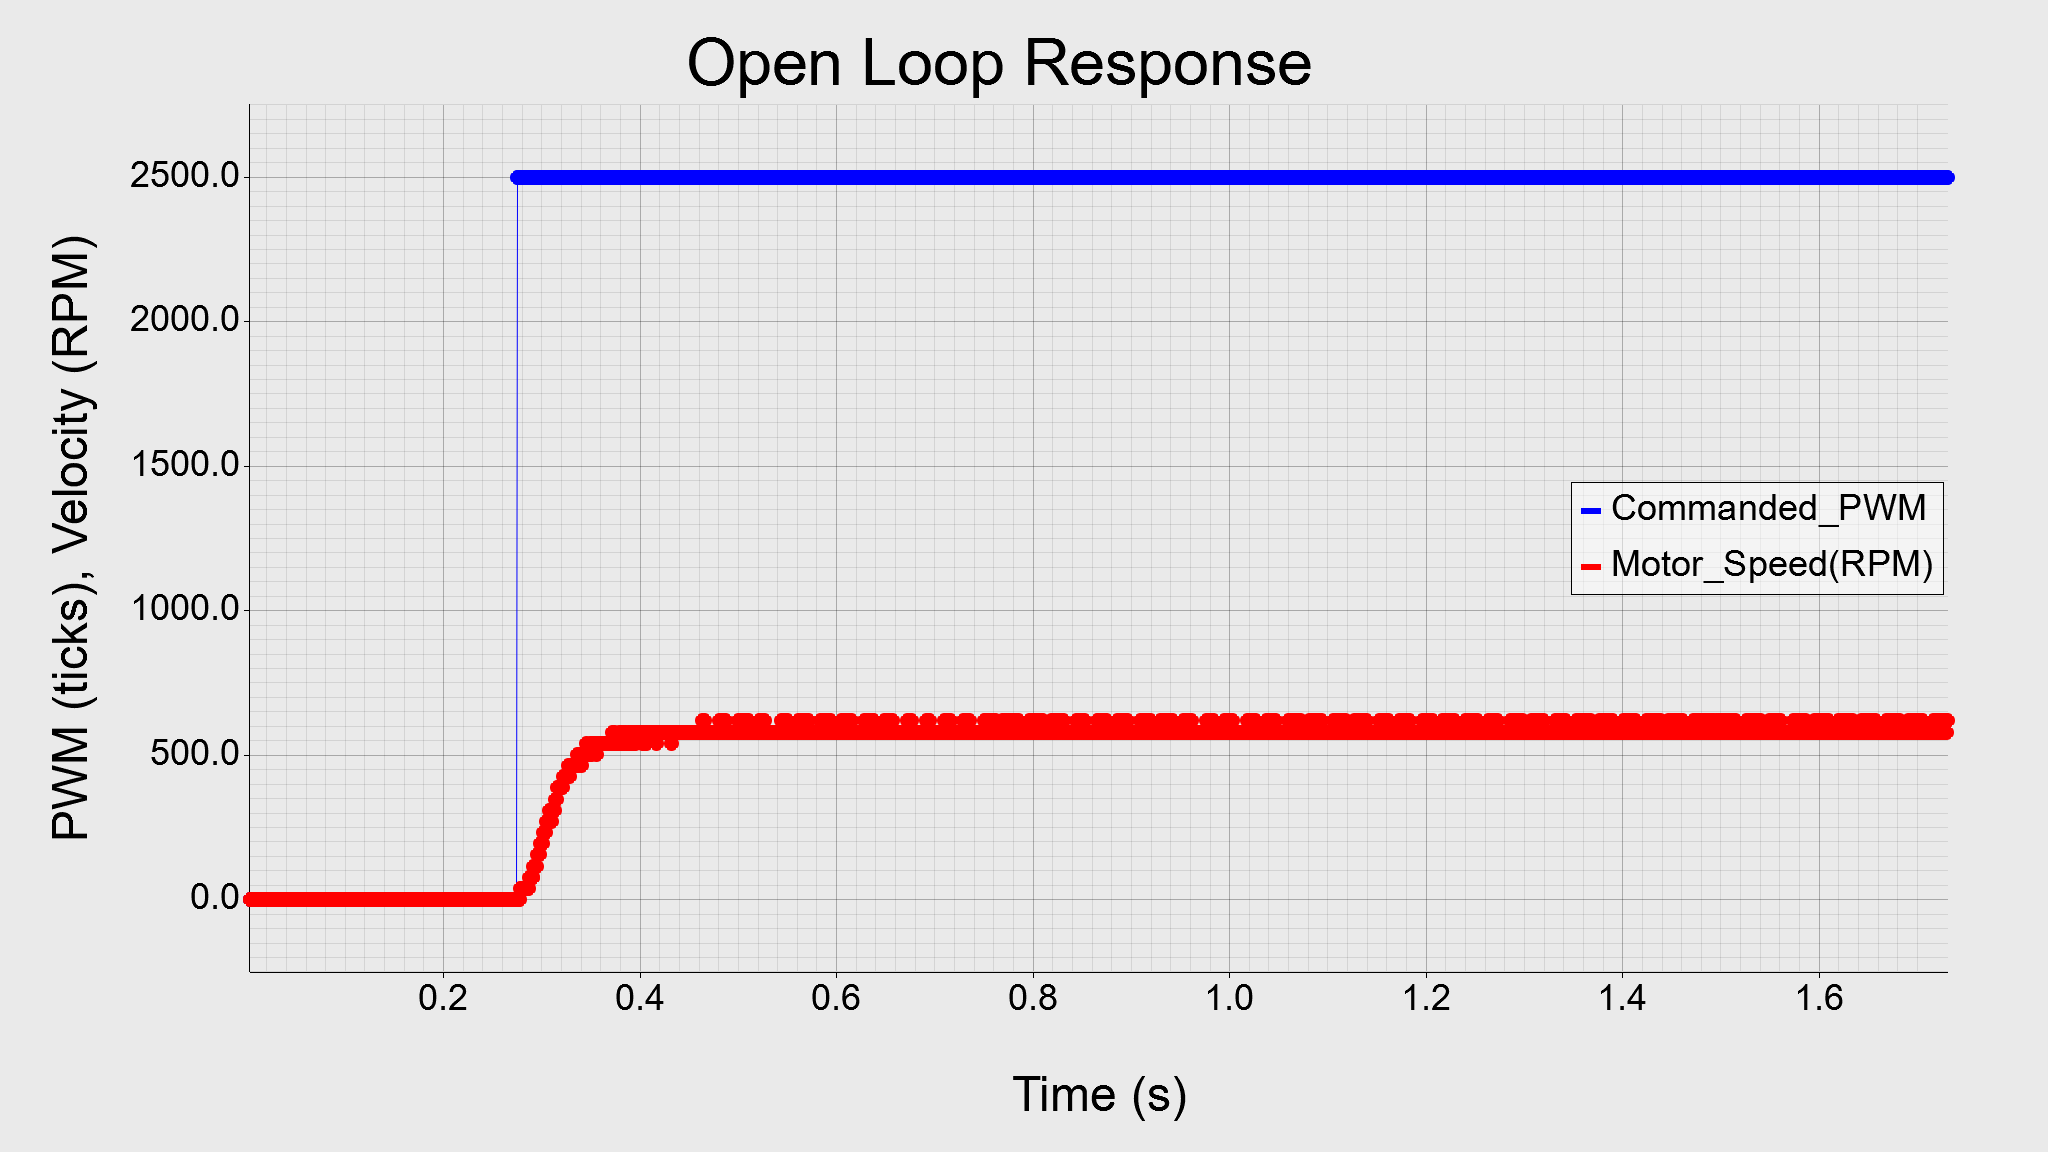
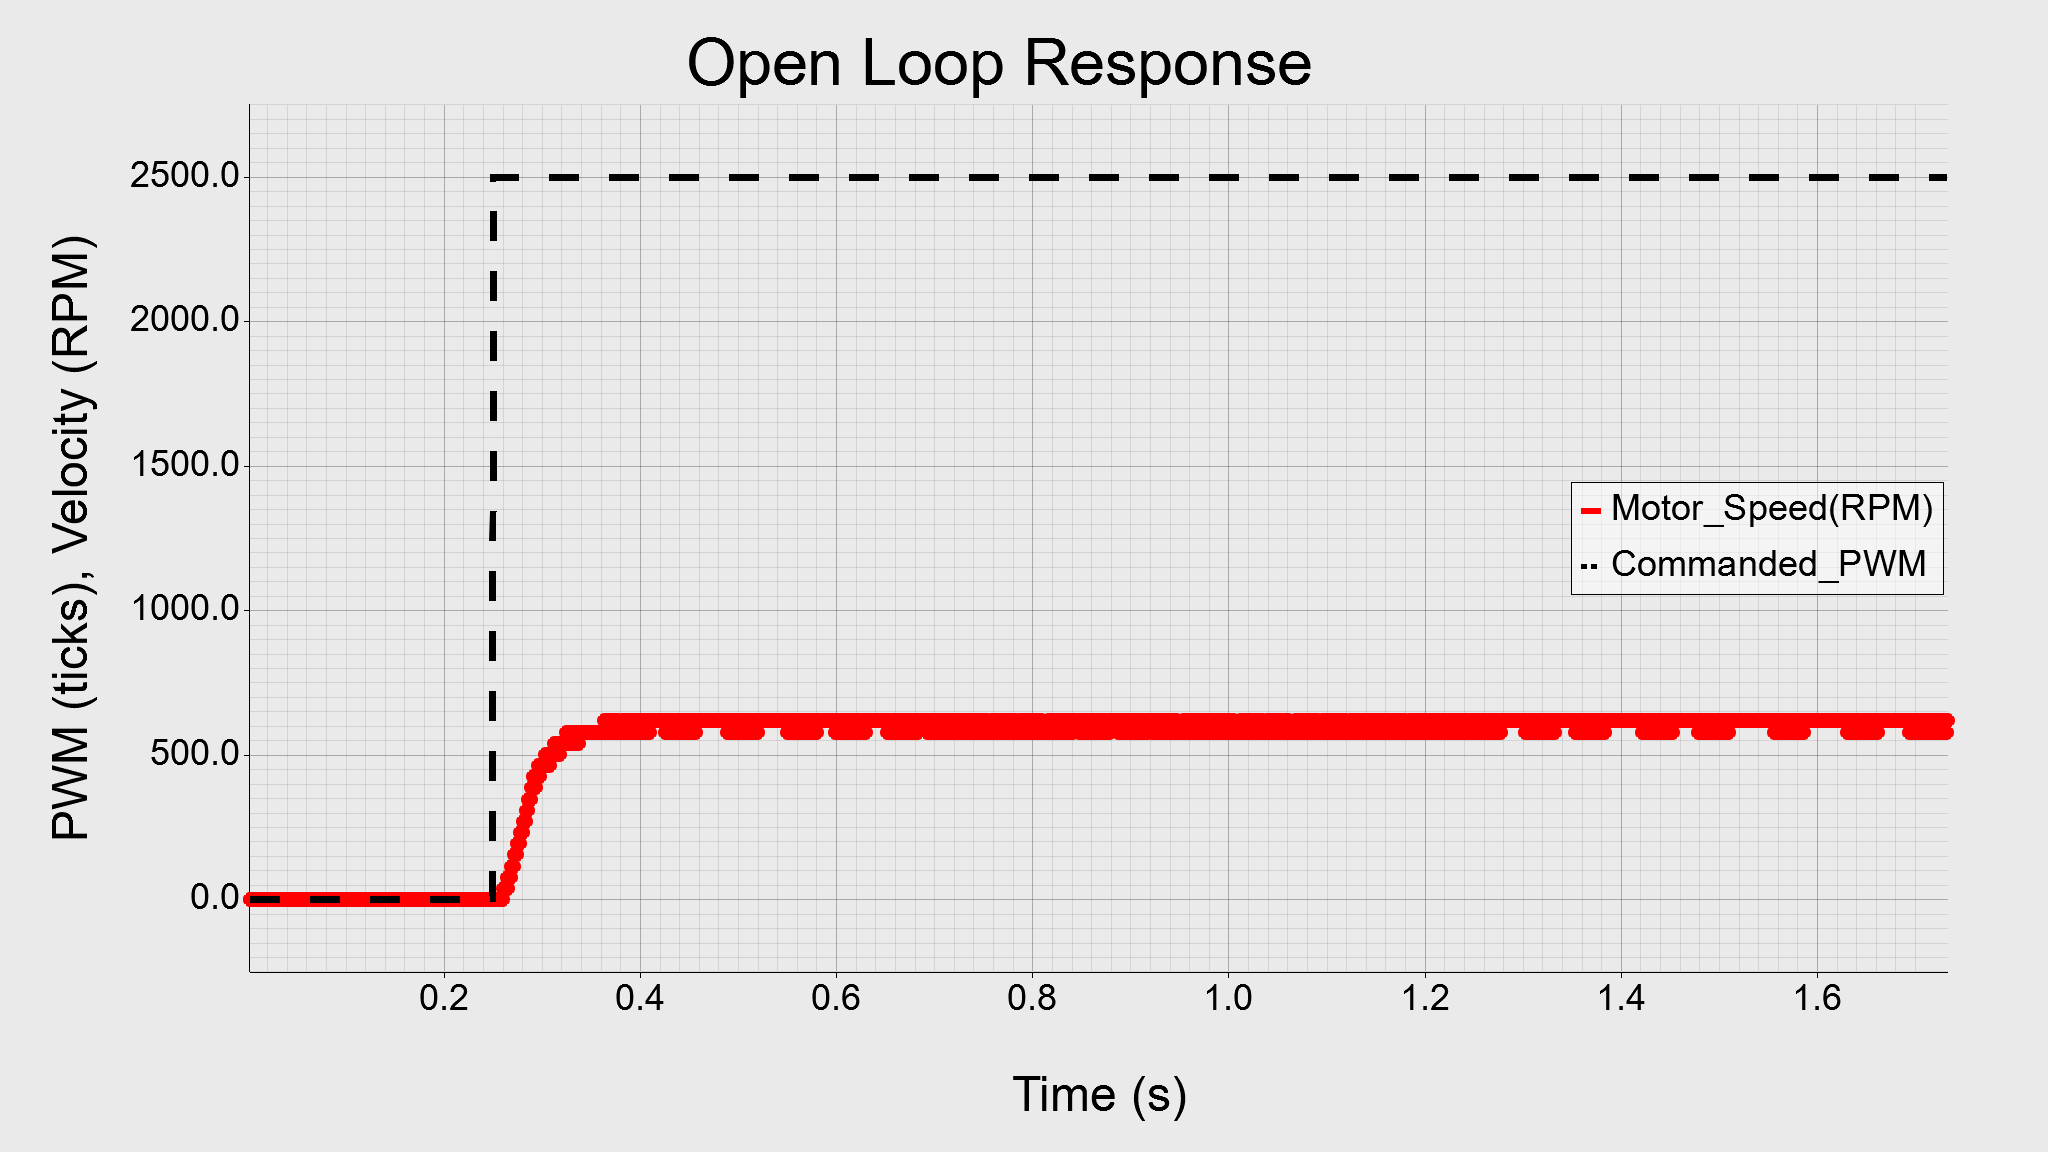
Update Commanded data style to dashed line

diff --git a/rust_script/src/plotter/plot.rs b/rust_script/src/plotter/plot.rs
@@ -49,7 +49,7 @@ pub fn plot_csv(
         .label_style((font_style, font_size.axis_label).into_font())
         .draw()?;
 
-    for col_idx in (0..csv_log.n_col).rev() {
+    for col_idx in 0..csv_log.n_col {
         if col_idx == TIMESTAMP_INDEX {
             continue;
         }
@@ -61,10 +61,6 @@ pub fn plot_csv(
             .collect();
 
         let color = color_config.pallete[(col_idx - 1) % color_config.pallete.len()];
-        let line_style = color.filled().stroke_width(chart_config.line_stroke_width);
-        let legend_line_style = color
-            .filled()
-            .stroke_width(chart_config.line_stroke_width * 5);
 
         let label_name = csv_log
             .header_names
@@ -73,16 +69,44 @@ pub fn plot_csv(
             .cloned()
             .unwrap_or_else(|| format!("Column {}", col_idx));
 
-        chart
-            .draw_series(LineSeries::new(series_data.iter().copied(), line_style))?
-            .label(label_name)
-            .legend(move |(x, y)| PathElement::new(vec![(x, y), (x + 20, y)], legend_line_style));
+        if csv_log.header_names[col_idx].contains("Commanded") {
+            let line_style = BLACK
+                .filled()
+                .stroke_width(chart_config.line_stroke_width * 6);
+            let legend_line_style = BLACK
+                .filled()
+                .stroke_width(chart_config.line_stroke_width * 5);
 
-        chart.draw_series(
-            series_data
-                .iter()
-                .map(|&(x, y)| Circle::new((x, y), chart_config.circle_size, color.filled())),
-        )?;
+            chart
+                .draw_series(DashedLineSeries::new(
+                    series_data.iter().copied(),
+                    30,
+                    30,
+                    line_style,
+                ))?
+                .label(&label_name)
+                .legend(move |(x, y)| {
+                    DashedPathElement::new(vec![(x, y), (x + 20, y)], 5, 5, legend_line_style)
+                });
+        } else {
+            let line_style = color.filled().stroke_width(chart_config.line_stroke_width);
+            let legend_line_style = color
+                .filled()
+                .stroke_width(chart_config.line_stroke_width * 5);
+
+            chart
+                .draw_series(LineSeries::new(series_data.iter().copied(), line_style))?
+                .label(&label_name)
+                .legend(move |(x, y)| {
+                    PathElement::new(vec![(x, y), (x + 20, y)], legend_line_style)
+                });
+
+            chart.draw_series(
+                series_data
+                    .iter()
+                    .map(|&(x, y)| Circle::new((x, y), chart_config.circle_size, color.filled())),
+            )?;
+        }
     }
 
     chart

diff --git a/rust_script/src/program/script.rs b/rust_script/src/program/script.rs
@@ -31,12 +31,7 @@ pub fn open_loop(pwm: i32) -> Result<(), Box<dyn std::error::Error>> {
     run_with_lock!(shared.m0 => stop_motor())?;
 
     // Plot Firmware Log
-    plot::plot_csv(
-        &log_dir,
-        &file_dir,
-        &chart_title,
-        &y_label,
-    )?;
+    plot::plot_csv(&log_dir, &file_dir, chart_title, y_label)?;
 
     Ok(())
 }
@@ -47,7 +42,7 @@ pub fn pos_trapezoid_move(
     acc_cps2: i32,
 ) -> Result<(), Box<dyn std::error::Error>> {
     let shared = SHARED.get().expect("Shared resources not initialized!");
-    
+
     // Position Control Config
     let log_mask = LogMask::CommandedPosition | LogMask::MotorPosition;
     let time_sampling = 1;
@@ -98,13 +93,8 @@ pub fn pos_trapezoid_move(
         current_pos.count, current_pos.rotation
     );
 
-    // Plot Firmware Log    
-    plot::plot_csv(
-        &log_dir,
-        &file_dir,
-        &chart_title,
-        &y_label,
-    )?;
+    // Plot Firmware Log
+    plot::plot_csv(&log_dir, &file_dir, chart_title, y_label)?;
 
     Ok(())
 }
@@ -117,7 +107,7 @@ pub fn pos_step_move(target_rotation: f64) -> Result<(), Box<dyn std::error::Err
     let time_sampling = 1;
     let chart_title = "Step Position Response";
     let y_label = "Position (rotation)";
-    
+
     // Get Current Pos
     let current_pos = run_with_lock!(shared.m0 => get_motor_pos())??;
     println!(
@@ -137,7 +127,7 @@ pub fn pos_step_move(target_rotation: f64) -> Result<(), Box<dyn std::error::Err
         shared.m0 => move_motor_pos_step(Position::from_rotation(target_rotation))
     )?;
 
-     // Wait Motor to Reach the Target Position
+    // Wait Motor to Reach the Target Position
     if let Err(e) = run_with_lock!(shared.m0 => wait_move_done(Duration::from_secs(20)))? {
         println!("{}", e);
     }
@@ -158,12 +148,7 @@ pub fn pos_step_move(target_rotation: f64) -> Result<(), Box<dyn std::error::Err
     );
 
     // Plot Firmware Log
-    plot::plot_csv(
-        &log_dir,
-        &file_dir,
-        &chart_title,
-        &y_label,
-    )?;
+    plot::plot_csv(&log_dir, &file_dir, chart_title, y_label)?;
 
     Ok(())
 }
@@ -197,12 +182,7 @@ pub fn speed_move(target_speed: f64) -> Result<(), Box<dyn std::error::Error>> {
     run_with_lock!(shared.m0 => stop_motor())?;
 
     // Plot Firmware Logger
-    plot::plot_csv(
-        &log_dir,
-        &file_dir,
-        &chart_title,
-        &y_label,
-    )?;
+    plot::plot_csv(&log_dir, &file_dir, chart_title, y_label)?;
 
     Ok(())
 }

diff --git a/rust_script/src/plotter/mod.rs b/rust_script/src/plotter/mod.rs
@@ -15,7 +15,9 @@ use crate::plotter::plotter_config::Y_AXIS_OFFSET;
 use crate::tool::csv_processing::CsvProcessing;
 
 /* ------------------------ Library --------------------------- */
+use plotters::element::DashedPathElement;
 use plotters::prelude::*;
+use plotters::series::DashedLineSeries;
 
 /* --------------------- Declare Modules ---------------------- */
 pub mod plot;

diff --git a/README.md b/README.md
@@ -341,12 +341,7 @@ pub fn speed_move(target_speed: f64) -> Result<(), Box<dyn std::error::Error>> {
     run_with_lock!(shared.m0 => stop_motor())?;
 
     // Plot Firmware Logger
-    plot::plot_csv(
-        &log_dir,
-        &file_dir,
-        &chart_title,
-        &y_label,
-    )?;
+    plot::plot_csv(&log_dir, &file_dir, chart_title, y_label)?;
 
     Ok(())
 }
